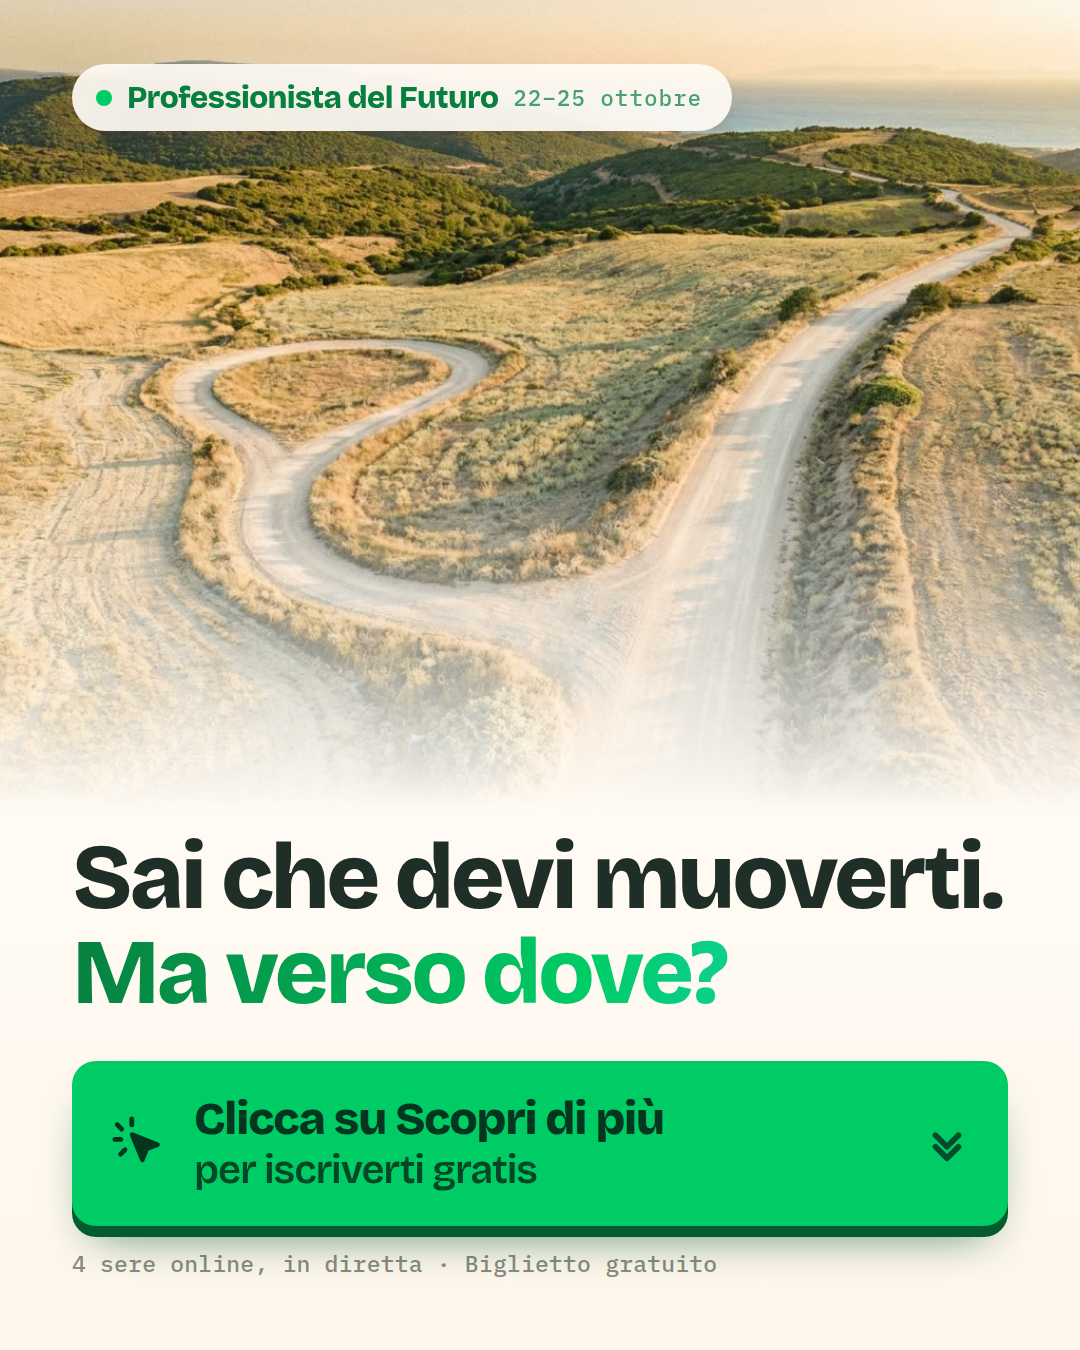
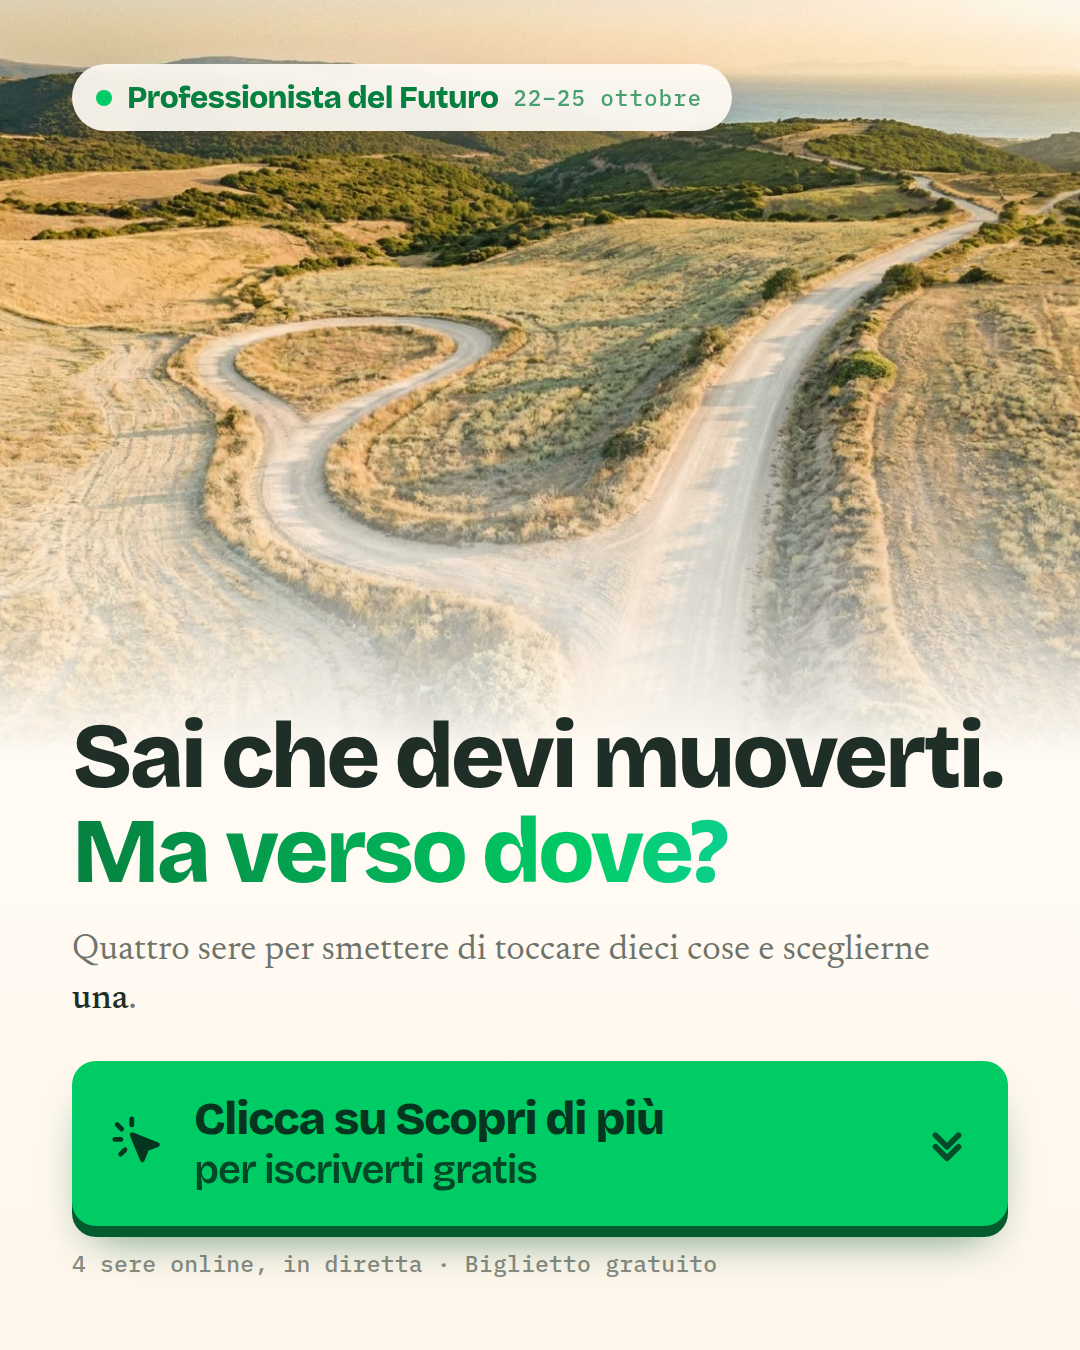
Tutti i pain, un'immagine diversa per ciascuno
Diciannove creativi: i diciotto pain utilizzabili della mappa più uno di
sola offerta. Ogni creativo usa una foto diversa della sales — scaricate
tutte in assets/sales/ — scelta in base a cosa racconta il pain.

Nuovo campo "sub": una riga di soluzione sotto l'hook, in Newsreader,
quasi sempre ripresa dalla pagina. Non c'è su tutti: dove l'hook si chiude
da solo, la riga in più sarebbe rumore.

Fuori il pain 17 (salute): oltre al lato umano, Meta vieta gli annunci che
lasciano intendere di conoscere la condizione di salute di chi legge.
Fuori anche l'immagine 05-onda-prima, il cui crop fa entrare la testata
millionaire tagliata.

Claude-Session: https://claude.ai/code/session_011n96Cod1T52G2mX253xFTh

diff --git a/src/workshop/template.js b/src/workshop/template.js
@@ -21,7 +21,7 @@ const THEME = {
     glow: 'linear-gradient(96deg,#06803F 0%,#00CC66 55%,#28D4E0 100%)',
     tagBg: 'rgba(255,251,244,.92)', tagInk: '#06803F', dot: '#00CC66',
     pillBg: '#00CC66', pillInk: '#04351F', pillShadow: '#045C2E',
-    foot: 'rgba(31,46,38,.55)',
+    sub: 'rgba(31,46,38,.66)', foot: 'rgba(31,46,38,.55)',
   },
   // verde profondo del blocco Premium: il taglio che stacca di più nel feed.
   deep: {
@@ -30,7 +30,7 @@ const THEME = {
     glow: 'linear-gradient(96deg,#5CE6A0 0%,#00CC66 50%,#28D4E0 100%)',
     tagBg: 'rgba(4,42,25,.82)', tagInk: '#5CE6A0', dot: '#5CE6A0',
     pillBg: '#00CC66', pillInk: '#04351F', pillShadow: '#023D1F',
-    foot: 'rgba(228,245,236,.62)',
+    sub: 'rgba(228,245,236,.78)', foot: 'rgba(228,245,236,.62)',
   },
   // blush: per i pain in cui il danno è già in corso.
   blush: {
@@ -39,7 +39,7 @@ const THEME = {
     glow: 'linear-gradient(96deg,#B93B22 0%,#E14A33 55%,#FF8A5C 100%)',
     tagBg: 'rgba(255,241,234,.92)', tagInk: '#B93B22', dot: '#E14A33',
     pillBg: '#00CC66', pillInk: '#04351F', pillShadow: '#045C2E',
-    foot: 'rgba(42,33,30,.55)',
+    sub: 'rgba(42,33,30,.66)', foot: 'rgba(42,33,30,.55)',
   },
 };
 
@@ -49,6 +49,8 @@ const face = (family, weight, style, file) => `
 const fonts = [
   ['Bricolage Grotesque', 600, 'normal', 'Bricolage-600.ttf'],
   ['Bricolage Grotesque', 800, 'normal', 'Bricolage-800.ttf'],
+  ['Newsreader', 400, 'normal', 'Newsreader-400.ttf'],
+  ['Newsreader', 500, 'normal', 'Newsreader-500.ttf'],
   ['IBM Plex Mono', 500, 'normal', 'PlexMono-500.ttf'],
   ['IBM Plex Mono', 600, 'normal', 'PlexMono-600.ttf'],
 ].map((f) => face(...f)).join('');
@@ -108,7 +110,11 @@ body{overflow:hidden;background:${t.base};-webkit-font-smoothing:antialiased}
 .ln{display:block;white-space:nowrap}
 .hi{background:${t.glow};-webkit-background-clip:text;background-clip:text;color:transparent}
 
-.bottom{margin-top:40px}
+.sub{margin-top:26px;font-family:'Newsreader',Georgia,serif;font-weight:400;
+  font-size:35px;line-height:1.42;color:${t.sub};max-width:25em}
+.sub b{font-weight:500;color:${t.ink}}
+
+.bottom{margin-top:36px}
 .pill{display:flex;align-items:center;gap:26px;background:${t.pillBg};color:${t.pillInk};
   border-radius:24px;padding:32px 38px;
   box-shadow:0 11px 0 ${t.pillShadow},0 28px 48px -22px rgba(4,92,46,.75)}
@@ -129,6 +135,7 @@ body{overflow:hidden;background:${t.base};-webkit-font-smoothing:antialiased}
   <div class="in">
     <span class="tag"><span class="dot"></span><span class="name">${esc(brand.product)}</span><span class="when">${esc(brand.when)}</span></span>
     <h1 class="hook" id="hook">${lines}</h1>
+    ${ad.sub ? `<p class="sub" id="sub">${ad.sub}</p>` : ''}
     <div class="bottom">
       <span class="pill">
         <span class="hand">
@@ -163,6 +170,11 @@ function fit() {
   while (s > 44 && over()) { s -= 2; h.style.fontSize = s + 'px'; }
   while (s < 150 && !over()) { s += 2; h.style.fontSize = s + 'px'; }
   while (s > 44 && over()) { s -= 2; h.style.fontSize = s + 'px'; }
+  var sub = document.getElementById('sub');
+  if (sub) {
+    var v = parseFloat(getComputedStyle(sub).fontSize);
+    while (v > 24 && box.scrollHeight > box.clientHeight) { v -= 1; sub.style.fontSize = v + 'px'; }
+  }
 }
 document.fonts.ready.then(fit);
 </script>

diff --git a/README.md b/README.md
@@ -124,7 +124,54 @@ Per ogni creativo in `ads.json`:
 L'headline si auto-dimensiona: cresce finché entra nella tela, quindi non serve
 contare i caratteri quando si aggiunge un pain.
 
-## Immagini generate
+## I creativi
+
+Uno per pain, **un'immagine diversa per ciascuno**, tutte prese dalla sales e
+scaricate in `assets/sales/`. Su molti c'è una riga di soluzione (`sub`) sotto
+l'hook, in Newsreader: è la risposta al pain, quasi sempre una frase della
+pagina. Non c'è su tutti — dove l'hook si chiude da solo, la riga in più è
+rumore.
+
+| File | Pain | Peso | Immagine |
+|---|---|---|---|
+| `p00-onda` | — offerta, nessun pain | — | 09-onda |
+| `p01-direzione` | Non so da dove iniziare | 13/124 | 24-bivio |
+| `p02-passo-ai` | Paura di non stare al passo con l'AI | 12/124 | 01-hero (crop sulle mani) |
+| `p03-tempo` | Non ho tempo, mi sento sopraffatto | 12/124 | 16-interno |
+| `p04-prezzo` | Non posso permettermi la formazione | 12/124 | 17-esterno |
+| `p05-eta` | «È tardi per me» | 10/124 | 14-anima |
+| `p06-diffidenza` | Chi siete, chi è lui | 10/124 | 41-coaching-online |
+| `p07-orario` | Conflitto di orario con l'evento | 10/124 | 19-workshop |
+| `p08-potenziale` | Il lavoro mi sta stretto | 9/124 | 13-artista |
+| `p09-reddito` | Non guadagno abbastanza | 9/124 | 25-valedieci |
+| `p10-non-applicato` | Ho comprato e non l'ho applicato | 9/124 | 22-scatole |
+| `p11-esami` | Gli esami come muro | 7/124 | 06-gabbia |
+| `p12-procrastinazione` | Blocco motivazionale | 5/124 | 08-dino |
+| `p13-invisibilita` | «Non mi cerca nessuno» | 5/124 | 21-porta |
+| `p14-coraggio` | Paura di cambiare | 4/124 | 26-sera1-onda |
+| `p15-ai-lavoro` | L'AI mi sta già togliendo il lavoro | 3/124 | 15-gia-successo |
+| `p16-percorso` | Il percorso non fa per me | 3/124 | 07-stampo |
+| `p18-contenuti` | Troppi contenuti | 2/124 | 04-radici |
+| `p19-se-non-applico` | «E se poi non lo applico?» | 2/124 | 10-elemento-umano |
+
+`_contact-sheet.png` è il provino di tutti e 19 insieme.
+
+### Due pain che non sono diventati creativi
+
+- **17 · Salute propria o di un familiare** (3/124). Non è materiale da
+  advertising: oltre al lato umano, Meta vieta gli annunci che lasciano
+  intendere di conoscere la condizione di salute di chi legge.
+- **Nessun altro.** Il 10 (`p10-non-applicato`) c'è, ma parla a chi ha già
+  comprato: va tenuto sul retargeting della lista Metodo, non sul freddo.
+
+### Immagini rimaste libere
+
+`05-onda-prima`, `11-medico`, `35-andrea-giuseppe-androidi-4`,
+`36-animatore-marlusa-2013` — disponibili per le varianti. Su `05-onda-prima`
+attenzione: il crop verticale fa entrare la testata *millionaire* tagliata, che
+su Meta è un problema doppio (marchio di terzi + promessa di ricchezza).
+
+### Generare immagini nuove invece di usare quelle della sales
 
 I creativi `p05`, `p08`, `p09` usano immagini generate apposta (Higgsfield,
 `gpt_image_2_5`) invece delle foto della sales, e le cercano in `assets/gen/`.
@@ -150,14 +197,6 @@ richiede di scaricare nulla. In alternativa i PNG si copiano a mano in
 `assets/gen/` con i nomi `eta.png`, `potenziale.png`, `reddito.png`: finché
 mancano, il renderer disegna un riquadro di attesa al posto della foto e segna
 il creativo con `○` invece che `✔`.
-
-## Set di test (3 creativi)
-
-| File | Pain | Perché |
-|---|---|---|
-| `p01-direzione-4x5.png` | Non so da dove iniziare, manca una direzione | 13/124, il più frequente |
-| `p02-passo-ai-4x5.png` | Paura di non stare al passo con l'AI | 12/124, il pain che il tema della campagna intercetta meglio |
-| `p15-ai-lavoro-4x5.png` | L'AI mi sta già togliendo il lavoro | 3/124, ma il più intenso e il più vicino all'acquisto |
 
 Nota su `01-hero.jpg`: l'immagine intera contiene un nudo (l'Adamo di
 Michelangelo). Il crop è stretto sulle due mani, che è anche il fotogramma più
